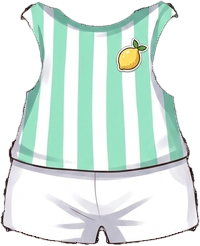
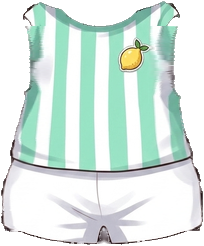
민트 줄무늬(보이) 옷 폭 맞춤, 헤드셋은 무대·행사 자동, 멤버 창 옷 갈아입기·소품 장착 버튼, 유닛 이름 기억, 이름 두 줄, 콘셉트별 곡 제목 10개, 35세 은퇴, 미리보기 보이그룹 옷

diff --git a/sw.js b/sw.js
@@ -1,11 +1,11 @@
 // 인터넷이 없어도 열리도록 앱 파일을 저장해 둠. 앱을 고치면 VERSION 숫자를 올릴 것.
-const VERSION = "v35";
+const VERSION = "v36";
 const FILES = ["./", "index.html", "manifest.webmanifest", "icon-180.png", "icon-192.png", "icon-512.png"];
 self.addEventListener("install", e => { e.waitUntil(caches.open(VERSION).then(c => c.addAll(FILES))); self.skipWaiting(); });
 self.addEventListener("activate", e => { e.waitUntil(caches.keys().then(ks => Promise.all(ks.filter(k => k !== VERSION).map(k => caches.delete(k))))); self.clients.claim(); });
 self.addEventListener("fetch", e => {
   if (e.request.method !== "GET") return;
   // 새 버전 먼저 받아 보고, 인터넷이 없으면 저장해 둔 것을 씀
-  e.respondWith(fetch(e.request).then(r => { const copy = r.clone(); caches.open(VERSION).then(c => c.put(e.request, copy)); return r; })
+  e.respondWith(fetch(e.request, { cache: "no-cache" }).then(r => { const copy = r.clone(); caches.open(VERSION).then(c => c.put(e.request, copy)); return r; })
     .catch(() => caches.match(e.request, { ignoreSearch: true })));
 });
